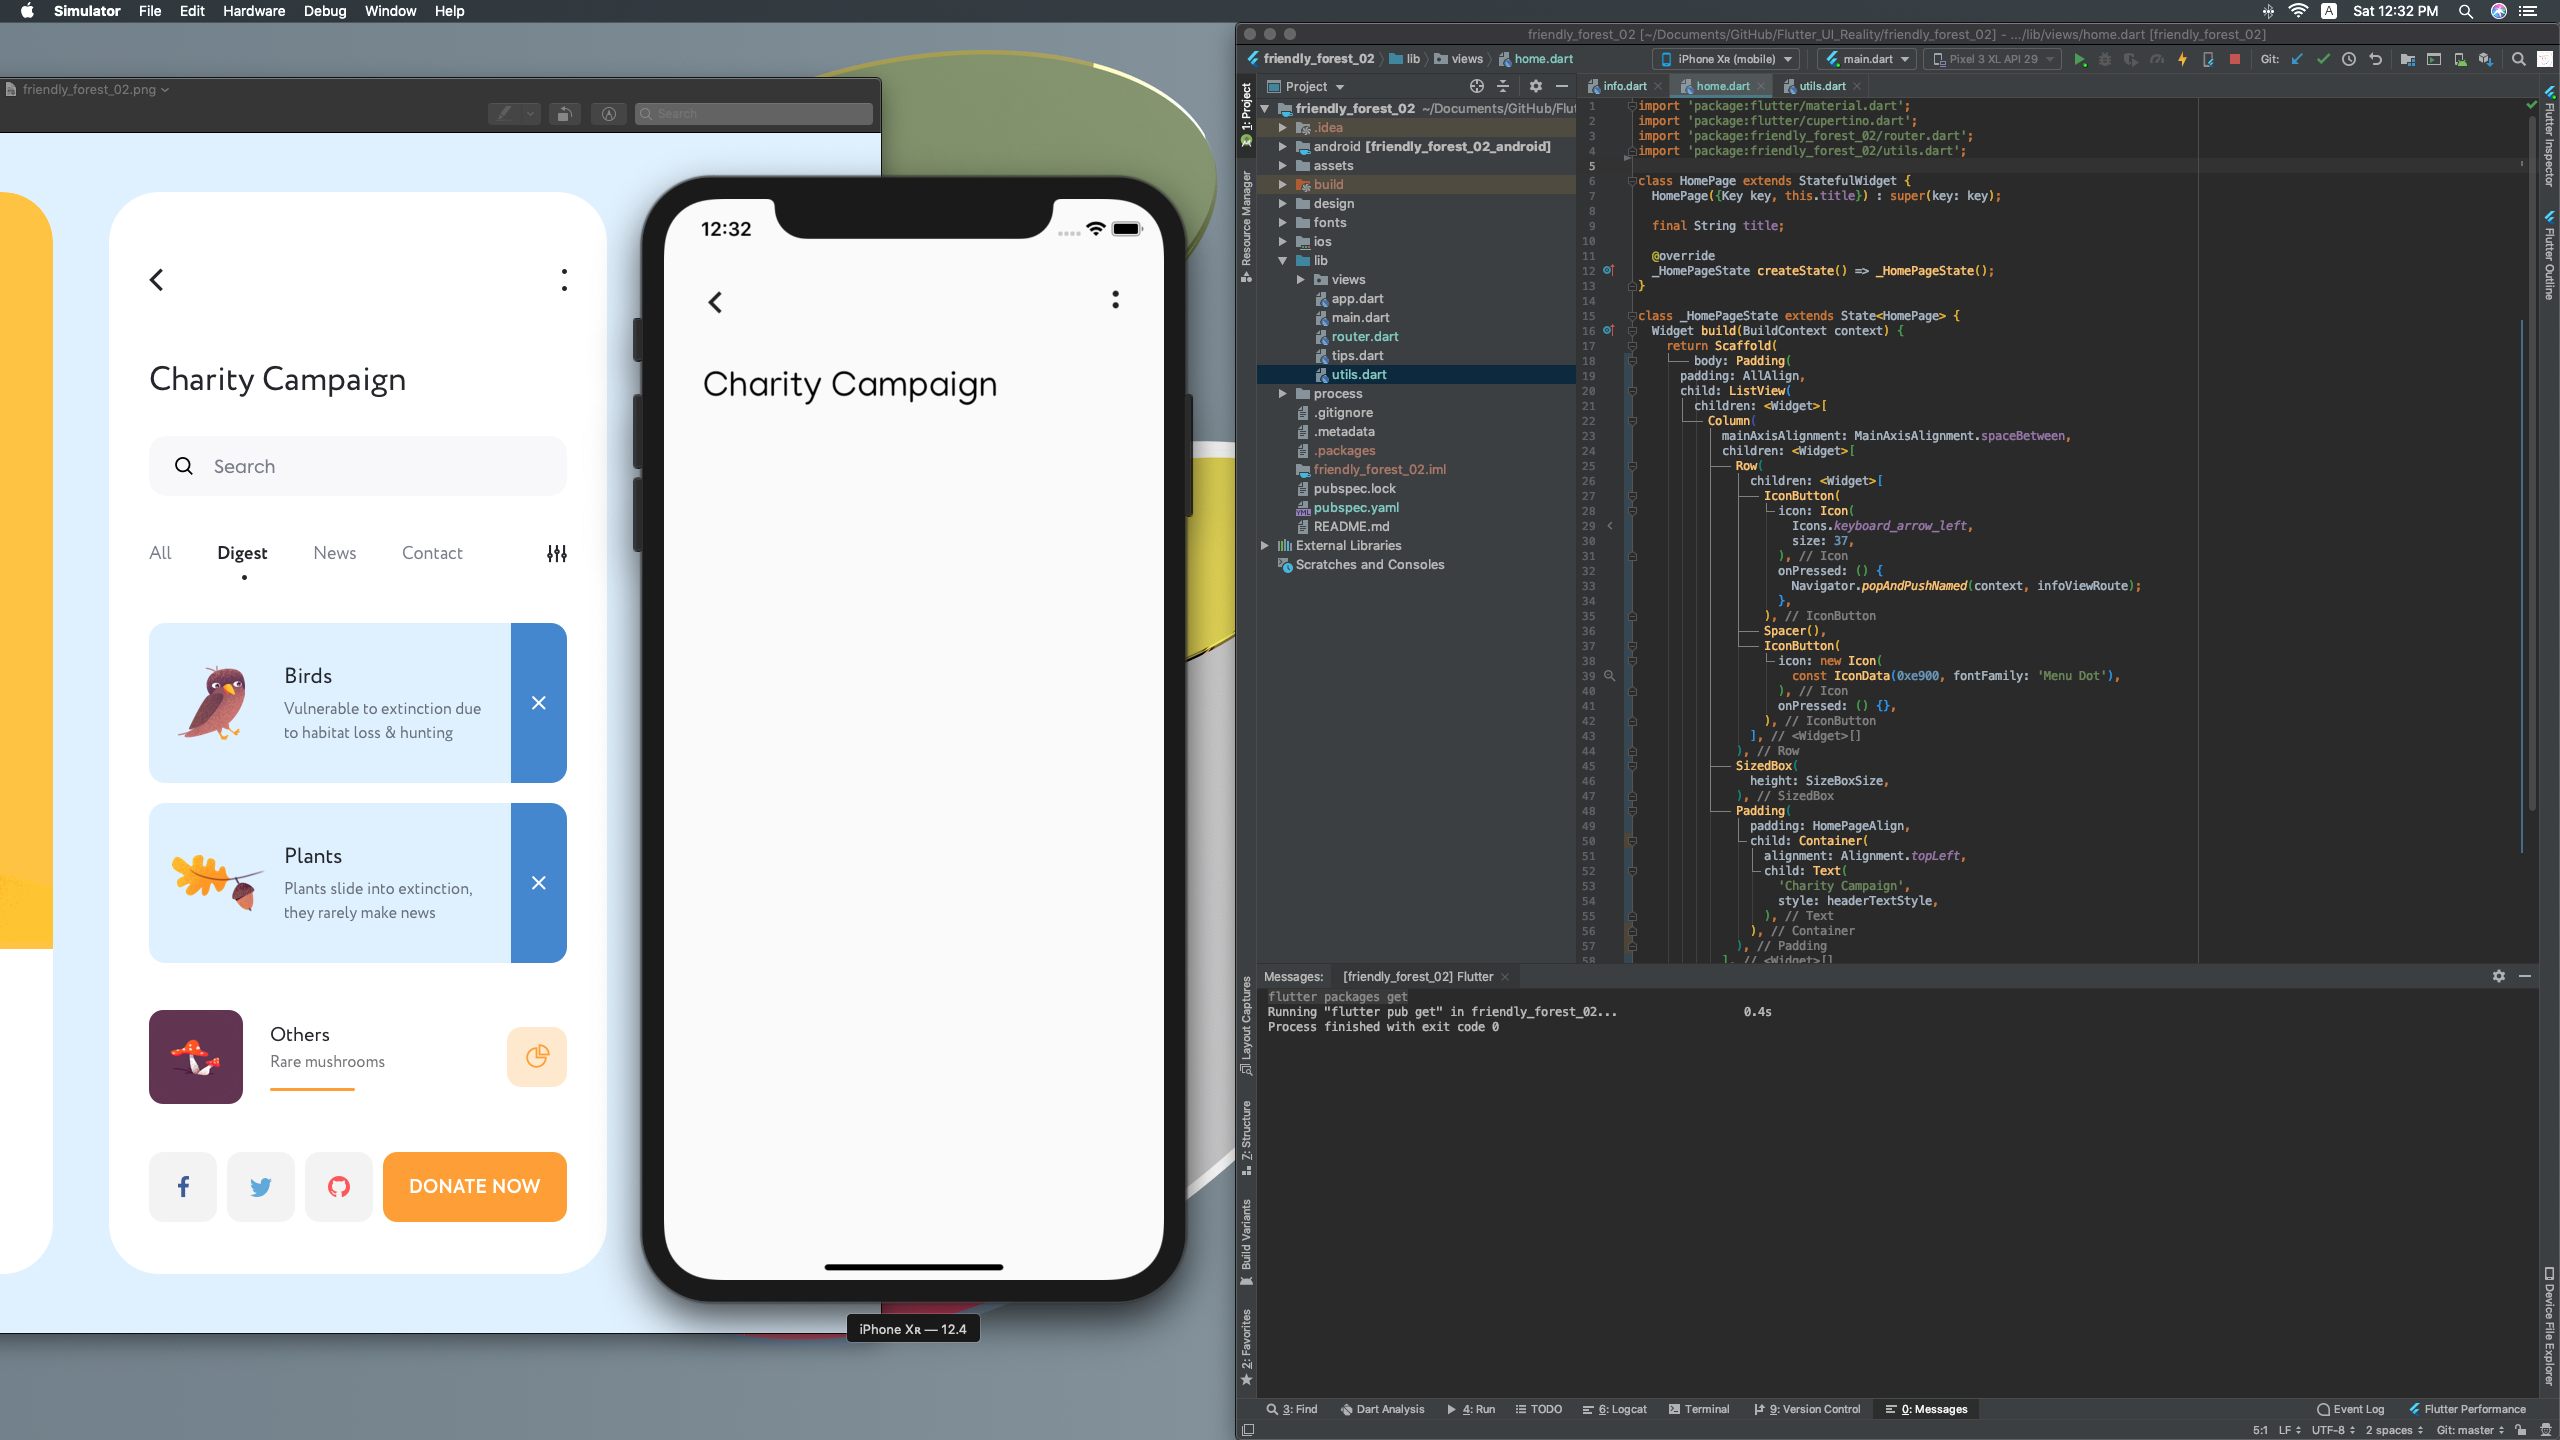
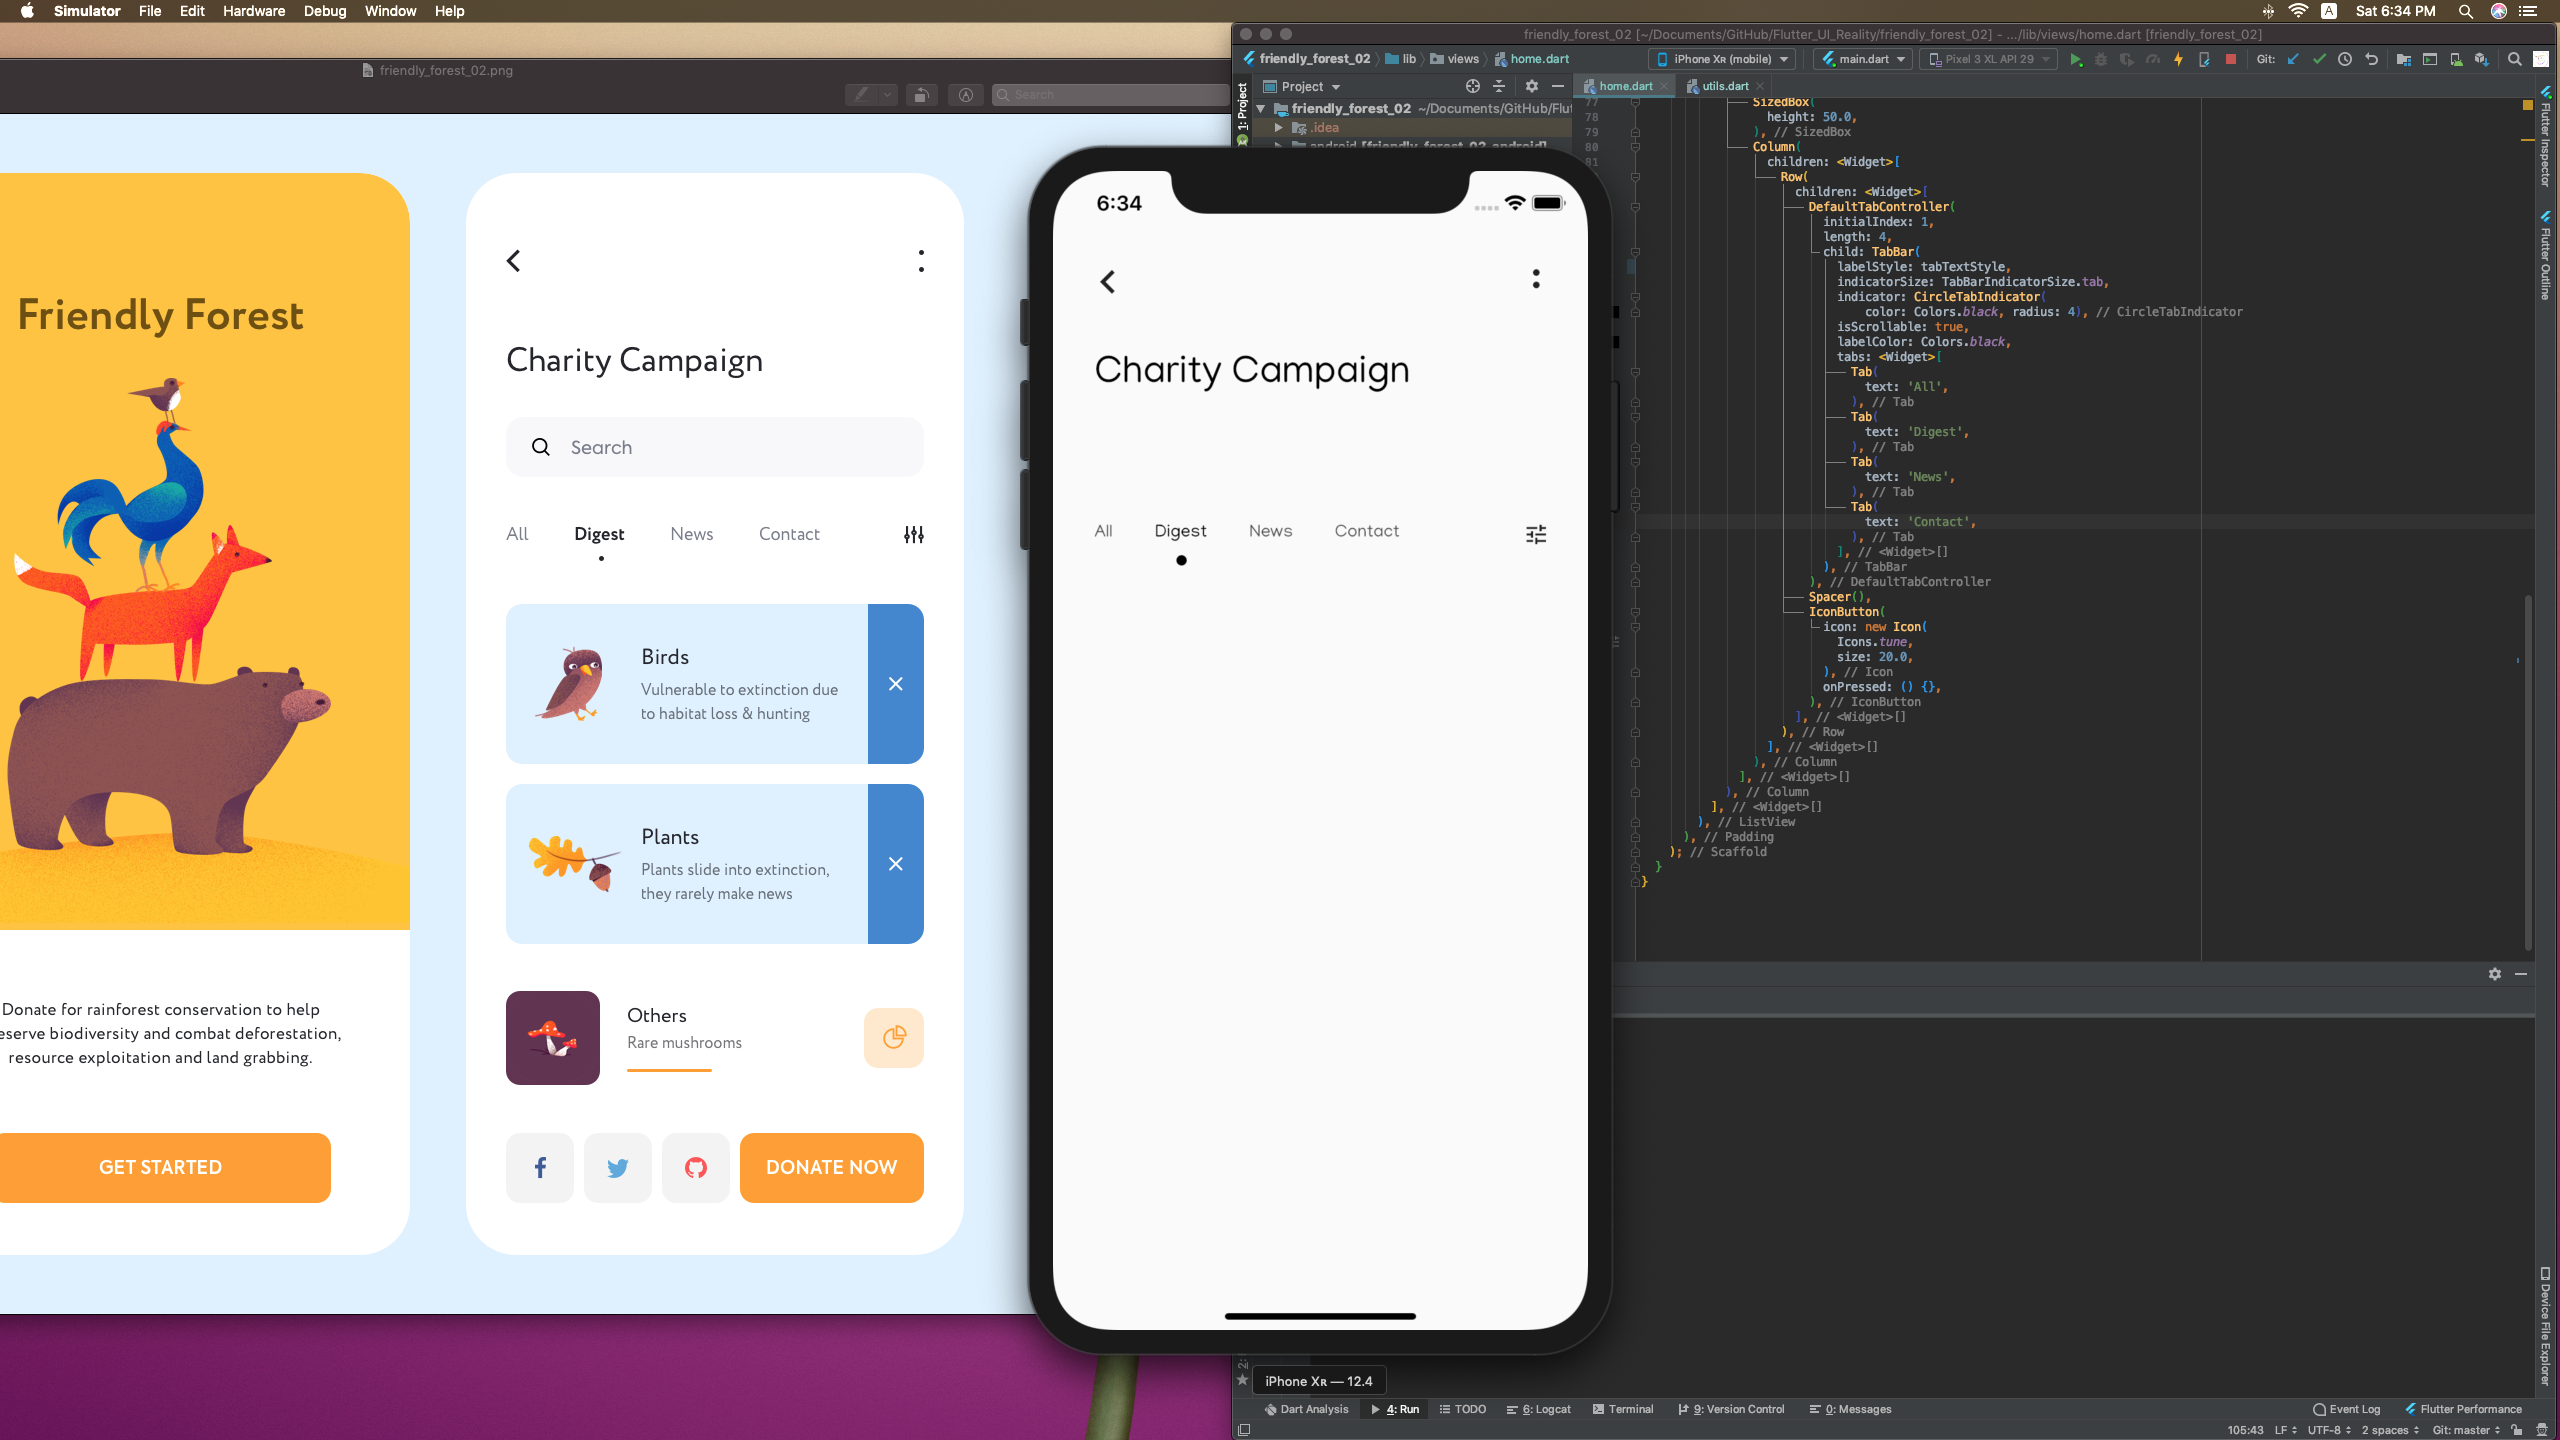
day3

diff --git a/friendly_forest_02/lib/views/home.dart b/friendly_forest_02/lib/views/home.dart
@@ -85,7 +85,7 @@ class _HomePageState extends State<HomePage>
                           initialIndex: 1,
                           length: 4,
                           child: TabBar(
-                            labelStyle: infoTextStyle,
+                            labelStyle: tabTextStyle,
                             indicatorSize: TabBarIndicatorSize.tab,
                             indicator: CircleTabIndicator(
                                 color: Colors.black, radius: 4),

diff --git a/friendly_forest_02/lib/utils.dart b/friendly_forest_02/lib/utils.dart
@@ -37,6 +37,13 @@ const infoTextStyle = const TextStyle(
   fontFamily: 'Manjari',
 );
 
+const tabTextStyle = const TextStyle(
+  fontSize: 13.5,
+  fontWeight: FontWeight.w200,
+  color: Color(0xff000000),
+  fontFamily: 'Manjari',
+);
+
 const headerTextStyle = const TextStyle(
   fontSize: 30.0,
   fontWeight: FontWeight.w400,
